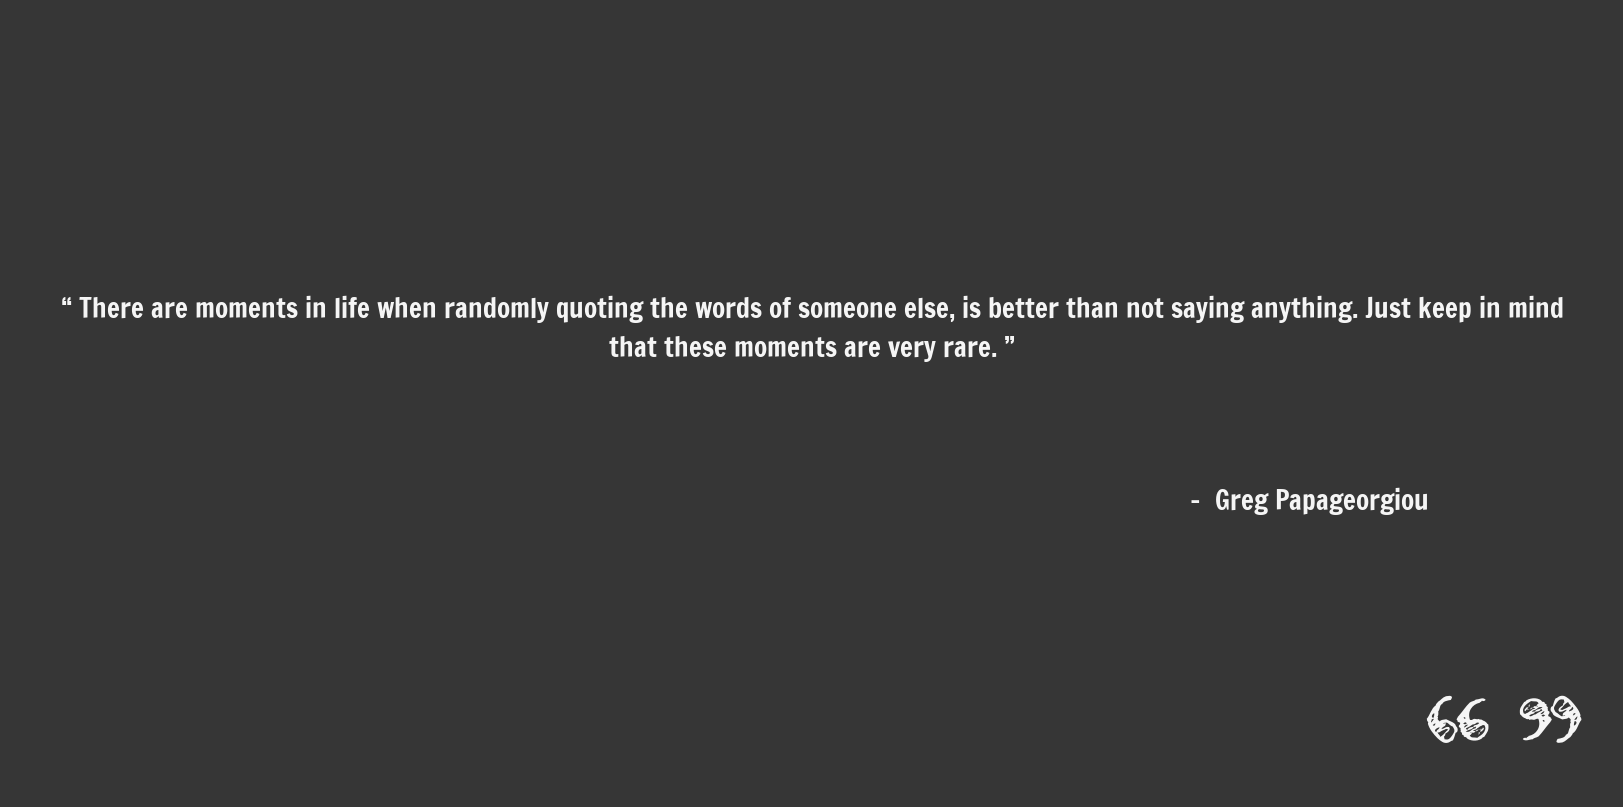
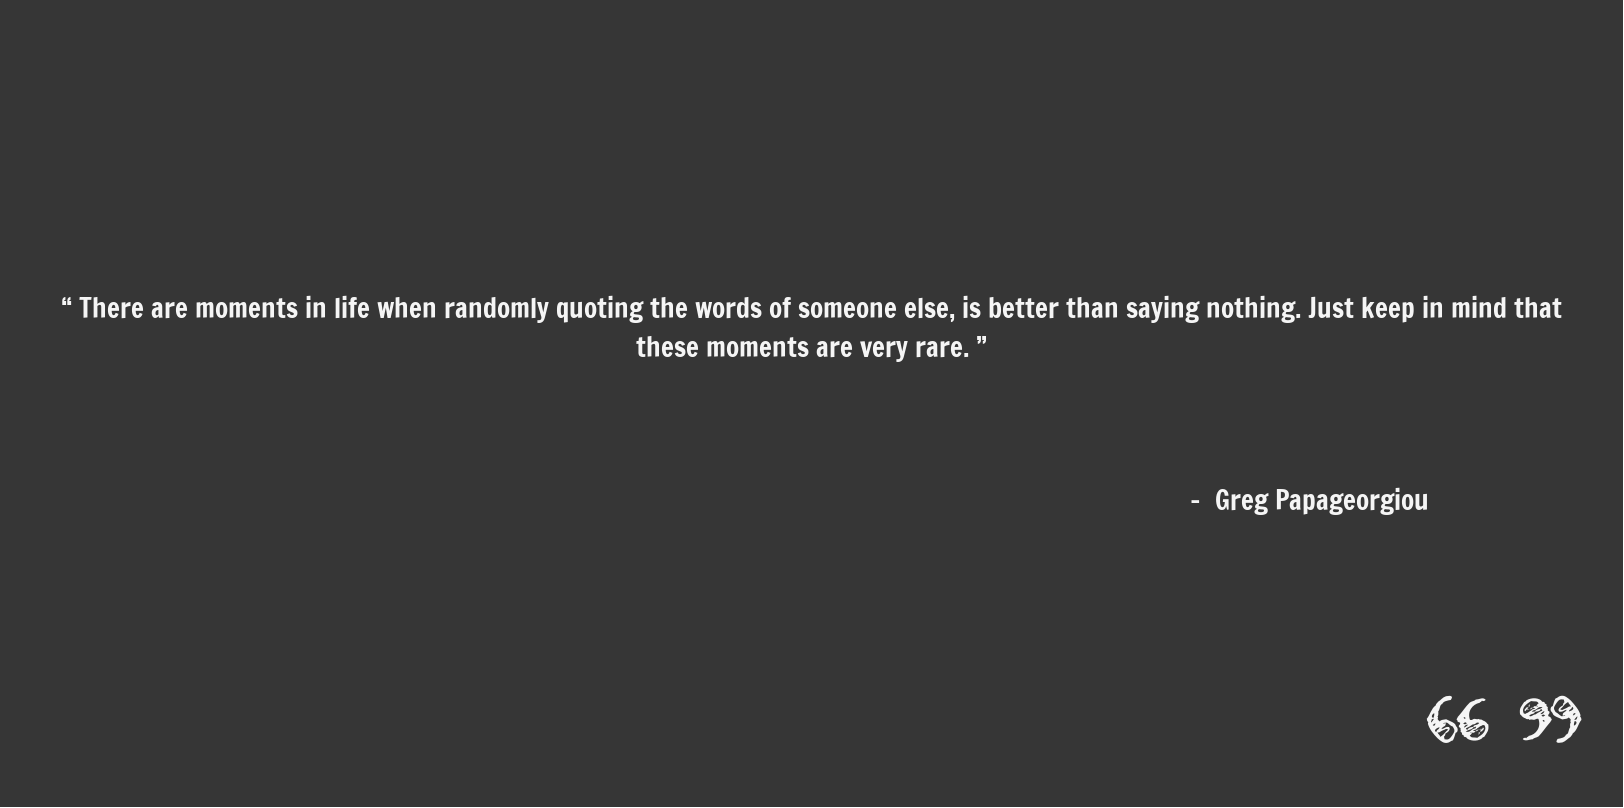
Vignette change

Changed region(s): [[0.3695, 0.4022, 0.6158, 0.4641], [0.6773, 0.3713, 0.9852, 0.4022]]

diff --git a/docs/articles/advanced_r_quoting.html b/docs/articles/advanced_r_quoting.html
@@ -120,7 +120,7 @@
 <p><img src="../mark_twain_statistics.png"></p>
 <p>For more information on what types of tags are possible see the  section of the help page: <a href="../reference/rQuote.html"><code><a href="../reference/rQuote.html">rQuote()</a></code></a>.</p>
 <p>To quote yourself, you can use function <a href="../reference/rQuoteMe.html"><code><a href="../reference/rQuoteMe.html">rQuoteMe()</a></code></a>. Here is an example of me quoting myself using the dark theme:</p>
-<div class="sourceCode" id="cb5"><pre class="sourceCode r"><code class="sourceCode r"><a class="sourceLine" id="cb5-1" title="1"><span class="kw"><a href="../reference/rQuoteMe.html">rQuoteMe</a></span>(<span class="dt">quote =</span> <span class="st">'There are moments in life when randomly quoting the words of someone else, is better than not saying anything. Just keep in mind that these moments are very rare.'</span>, </a>
+<div class="sourceCode" id="cb5"><pre class="sourceCode r"><code class="sourceCode r"><a class="sourceLine" id="cb5-1" title="1"><span class="kw"><a href="../reference/rQuoteMe.html">rQuoteMe</a></span>(<span class="dt">quote =</span> <span class="st">'There are moments in life when randomly quoting the words of someone else, is better than saying nothing. Just keep in mind that these moments are very rare.'</span>, </a>
 <a class="sourceLine" id="cb5-2" title="2">         <span class="dt">author =</span> <span class="st">'Greg Papageorgiou'</span>, </a>
 <a class="sourceLine" id="cb5-3" title="3">         <span class="dt">theme =</span> <span class="st">'dark'</span>)</a></code></pre></div>
 <p><img src="../Greg_quote.png"></p>
